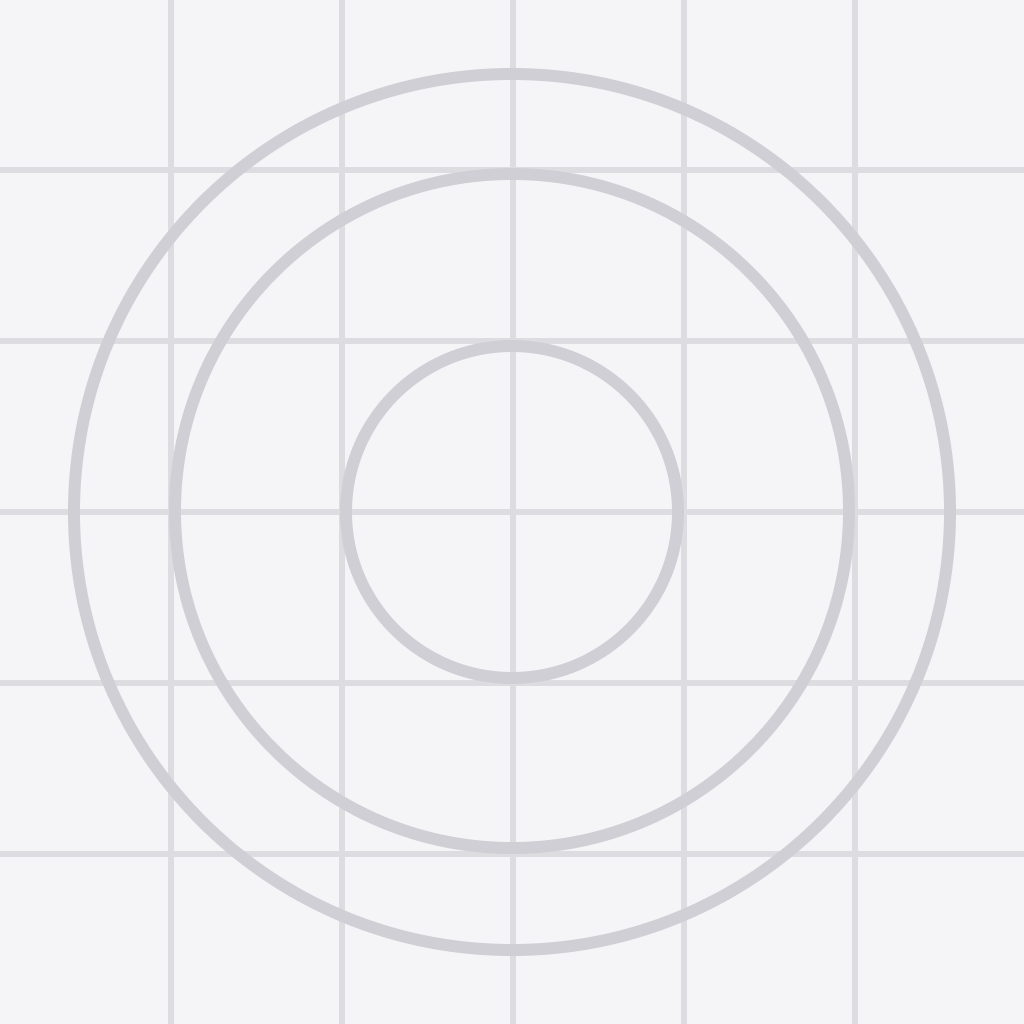
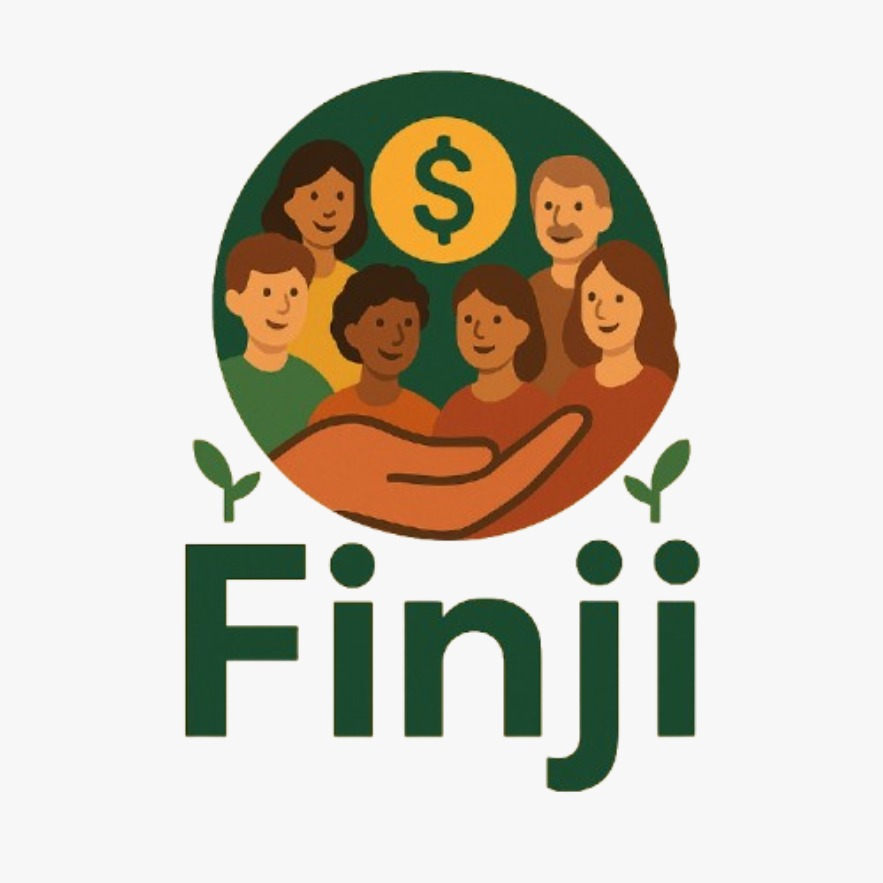
update responsivness

diff --git a/app/(tabs)/index.jsx b/app/(tabs)/index.jsx
@@ -18,6 +18,7 @@ import { useUserRole } from '../../contexts/UserRoleContext';
 
 const { width: screenWidth } = Dimensions.get('window');
 const isWeb = Platform.OS === 'web';
+const isSmallScreen = screenWidth < 380;
 
 export default function AuthPage() {
   const navigation = useNavigation();
@@ -257,8 +258,10 @@ function OAuthButtons() {
 
 const styles = StyleSheet.create({
   container: {
-    padding: isWeb ? 40 : 24,
-    paddingTop: isWeb ? 80 : 60,
+    flexGrow: 1,
+    padding: isWeb ? 40 : (isSmallScreen ? 16 : 20),
+    paddingTop: isWeb ? 80 : (isSmallScreen ? 28 : 40),
+    paddingBottom: isWeb ? 40 : (isSmallScreen ? 24 : 32),
     backgroundColor: '#fff',
     minHeight: '100%',
   },
@@ -269,11 +272,11 @@ const styles = StyleSheet.create({
   },
   iconContainer: {
     alignItems: 'center',
-    marginBottom: isWeb ? 24 : 16,
+    marginBottom: isWeb ? 24 : (isSmallScreen ? 10 : 12),
   },
   logoContainer: {
     backgroundColor: '#e6f0ff',
-    padding: isWeb ? 16 : 12,
+    padding: isWeb ? 16 : (isSmallScreen ? 10 : 12),
     borderRadius: 999,
     ...(isWeb && {
       transition: 'transform 0.2s ease',
@@ -284,21 +287,21 @@ const styles = StyleSheet.create({
     }),
   },
   logo: {
-    width: isWeb ? 80 : 64,
-    height: isWeb ? 80 : 64,
-    borderRadius: isWeb ? 40 : 32,
+    width: isWeb ? 80 : (isSmallScreen ? 52 : 60),
+    height: isWeb ? 80 : (isSmallScreen ? 52 : 60),
+    borderRadius: isWeb ? 40 : (isSmallScreen ? 26 : 30),
   },
   title: {
-    fontSize: isWeb ? 32 : 24,
+    fontSize: isWeb ? 32 : (isSmallScreen ? 20 : 22),
     fontWeight: 'bold',
     textAlign: 'center',
-    marginBottom: isWeb ? 40 : 30,
+    marginBottom: isWeb ? 40 : (isSmallScreen ? 18 : 22),
   },
   
   tabContainer: {
     flexDirection: 'row',
     justifyContent: 'center',
-    marginBottom: isWeb ? 32 : 24,
+    marginBottom: isWeb ? 32 : (isSmallScreen ? 14 : 18),
     backgroundColor: '#f0f0f0',
     borderRadius: 12,
     ...(isWeb && {
@@ -307,7 +310,7 @@ const styles = StyleSheet.create({
   },
   tab: {
     flex: 1,
-    paddingVertical: isWeb ? 16 : 12,
+    paddingVertical: isWeb ? 16 : (isSmallScreen ? 10 : 12),
     alignItems: 'center',
     borderRadius: 12,
     cursor: isWeb ? 'pointer' : 'default',
@@ -322,7 +325,7 @@ const styles = StyleSheet.create({
     backgroundColor: '#e6f0ff',
   },
   tabText: {
-    fontSize: isWeb ? 18 : 16,
+    fontSize: isWeb ? 18 : (isSmallScreen ? 14 : 15),
     color: '#6c757d',
     fontWeight: '600',
   },
@@ -330,19 +333,19 @@ const styles = StyleSheet.create({
     color: '#007bff',
   },
   label: {
-    marginBottom: isWeb ? 8 : 6,
+    marginBottom: isWeb ? 8 : (isSmallScreen ? 4 : 6),
     fontWeight: '500',
     color: '#212529',
-    fontSize: isWeb ? 16 : 14,
+    fontSize: isWeb ? 16 : (isSmallScreen ? 13 : 14),
   },
   form: {
-    marginBottom: isWeb ? 40 : 30,
+    marginBottom: isWeb ? 40 : (isSmallScreen ? 18 : 22),
   },
   input: {
     backgroundColor: '#fff',
-    padding: isWeb ? 16 : 12,
+    padding: isWeb ? 16 : (isSmallScreen ? 10 : 12),
     borderRadius: 8,
-    marginBottom: isWeb ? 16 : 12,
+    marginBottom: isWeb ? 16 : (isSmallScreen ? 10 : 12),
     borderWidth: 1,
     borderColor: '#ced4da',
     fontSize: isWeb ? 16 : 16,
@@ -357,11 +360,11 @@ const styles = StyleSheet.create({
   },
   forgotPassword: {
     alignItems: 'flex-end',
-    marginBottom: isWeb ? 20 : 16,
+    marginBottom: isWeb ? 20 : (isSmallScreen ? 10 : 14),
   },
   forgotPasswordText: {
     color: '#007bff',
-    fontSize: isWeb ? 14 : 13,
+    fontSize: isWeb ? 14 : (isSmallScreen ? 12 : 13),
     cursor: isWeb ? 'pointer' : 'default',
     ...(isWeb && {
       transition: 'color 0.2s ease',
@@ -373,7 +376,7 @@ const styles = StyleSheet.create({
   },
   button: {
     backgroundColor: '#cce0ff',
-    padding: isWeb ? 18 : 14,
+    padding: isWeb ? 18 : (isSmallScreen ? 12 : 14),
     borderRadius: 8,
     alignItems: 'center',
     cursor: isWeb ? 'pointer' : 'default',
@@ -392,15 +395,15 @@ const styles = StyleSheet.create({
   buttonText: {
     color: '#007bff',
     fontWeight: 'bold',
-    fontSize: isWeb ? 18 : 16,
+    fontSize: isWeb ? 18 : (isSmallScreen ? 14 : 16),
   },
   oauthButton: {
     backgroundColor: '#fff',
     borderWidth: 1,
     borderColor: '#dee2e6',
     borderRadius: 8,
-    paddingVertical: isWeb ? 14 : 12,
-    paddingHorizontal: isWeb ? 12 : 10,
+    paddingVertical: isWeb ? 14 : (isSmallScreen ? 10 : 12),
+    paddingHorizontal: isWeb ? 12 : (isSmallScreen ? 8 : 10),
     flex: 1,
     alignItems: 'center',
     cursor: isWeb ? 'pointer' : 'default',
@@ -414,7 +417,7 @@ const styles = StyleSheet.create({
     }),
   },
   oauthButtonText: {
-    fontSize: isWeb ? 15 : 14,
+    fontSize: isWeb ? 15 : (isSmallScreen ? 13 : 14),
     fontWeight: '600',
     color: '#343a40',
   },
@@ -427,7 +430,7 @@ const styles = StyleSheet.create({
   privacyPolicy: {
     textAlign: 'center',
     marginTop: 4,
-    fontSize: isWeb ? 13 : 12,
+    fontSize: isWeb ? 13 : (isSmallScreen ? 11 : 12),
     color: '#007bff',
     textDecorationLine: 'underline',
     cursor: isWeb ? 'pointer' : 'default',
@@ -440,15 +443,15 @@ const styles = StyleSheet.create({
   },
   roleContainer: {
     flexDirection: 'row',
-    marginBottom: isWeb ? 16 : 12,
+    marginBottom: isWeb ? 16 : (isSmallScreen ? 10 : 12),
     backgroundColor: '#f0f0f0',
     borderRadius: 8,
     padding: 4,
   },
   roleButton: {
     flex: 1,
-    paddingVertical: isWeb ? 12 : 10,
-    paddingHorizontal: isWeb ? 16 : 12,
+    paddingVertical: isWeb ? 12 : (isSmallScreen ? 9 : 10),
+    paddingHorizontal: isWeb ? 16 : (isSmallScreen ? 10 : 12),
     alignItems: 'center',
     borderRadius: 6,
     cursor: isWeb ? 'pointer' : 'default',
@@ -463,7 +466,7 @@ const styles = StyleSheet.create({
     backgroundColor: '#e6f0ff',
   },
   roleButtonText: {
-    fontSize: isWeb ? 14 : 13,
+    fontSize: isWeb ? 14 : (isSmallScreen ? 12 : 13),
     color: '#6c757d',
     fontWeight: '600',
   },

diff --git a/app/web-styles.css b/app/web-styles.css
@@ -1,5 +1,35 @@
 /* Web-specific styles for Finji app */
 
+/* Mobile-first web viewport + overflow safety */
+html,
+body {
+  width: 100%;
+  min-height: 100%;
+  margin: 0;
+  padding: 0;
+  overflow-x: hidden;
+  -webkit-text-size-adjust: 100%;
+}
+
+/* Expo web root */
+#root {
+  width: 100%;
+  min-height: 100%;
+}
+
+/* Prefer dynamic viewport height on mobile browsers */
+@supports (height: 100dvh) {
+  body {
+    min-height: 100dvh;
+  }
+}
+
+*,
+*::before,
+*::after {
+  box-sizing: border-box;
+}
+
 /* Global web enhancements */
 @media (min-width: 768px) {
   /* Prevent body scroll when modal is open */

diff --git a/app/(tabs)/_layout.jsx b/app/(tabs)/_layout.jsx
@@ -6,7 +6,7 @@ import { DarkTheme, DefaultTheme, NavigationContainer, useNavigation } from '@re
 import { createStackNavigator } from "@react-navigation/stack";
 import { signOut } from 'firebase/auth';
 import React from "react";
-import { Alert, Platform } from 'react-native';
+import { Alert, Platform, useWindowDimensions } from 'react-native';
 import NotFoundScreen from "../+not-found";
 import { auth } from "../../config/firebase";
 import { Colors } from "../../constants/Colors";
@@ -20,6 +20,7 @@ import PostScreen from "./PostScreen";
 import ProfileScreen from "./ProfileScreen";
 
 const isWeb = Platform.OS === 'web';
+const WEB_FIXED_TABBAR_MIN_WIDTH = 768;
 
 const Stack = createStackNavigator();
 const Tab = createBottomTabNavigator();
@@ -29,6 +30,8 @@ const Drawer = createDrawerNavigator();
 const BottomTabs = () => {
   const colorScheme = useColorScheme();
   const { userRole, isLoading, user } = useUserRole();
+  const { width } = useWindowDimensions();
+  const useFixedWebTabBar = isWeb && width >= WEB_FIXED_TABBAR_MIN_WIDTH;
 
 
   // Show loading state while determining user role
@@ -48,7 +51,7 @@ const BottomTabs = () => {
         tabBarInactiveTintColor: "gray",
         tabBarStyle: {
           backgroundColor: Colors[colorScheme ?? "light"].background,
-          ...(isWeb && {
+          ...(useFixedWebTabBar && {
             position: 'fixed',
             bottom: 0,
             left: 0,
@@ -74,7 +77,7 @@ const BottomTabs = () => {
 
           return <Ionicons name={iconName} size={size} color={color} />;
         },
-        ...(isWeb && {
+        ...(useFixedWebTabBar && {
           tabBarLabelStyle: {
             fontSize: 12,
             fontWeight: '600',
@@ -211,7 +214,7 @@ export default function StackLayout() {
           contentStyle: {
             backgroundColor: Colors[colorScheme ?? "light"].background,
             ...(isWeb && {
-              minHeight: '100vh',
+              minHeight: '100%',
             }),
           },
         }}

diff --git a/app/_layout.tsx b/app/_layout.tsx
@@ -1,9 +1,14 @@
 import { useFonts } from 'expo-font';
 import { StatusBar } from 'expo-status-bar';
 import 'react-native-reanimated';
+import { Platform } from 'react-native';
 
 import { UserRoleProvider } from '../contexts/UserRoleContext';
 import StackLayout from './(tabs)/_layout';
+
+if (Platform.OS === 'web') {
+  require('./web-styles.css');
+}
 
 export default function RootLayout() {
   const [loaded] = useFonts({

diff --git a/app/(tabs)/HomeScreen.jsx b/app/(tabs)/HomeScreen.jsx
@@ -346,7 +346,8 @@ const styles = StyleSheet.create({
   scrollContainer: { 
     alignItems: "center",
     paddingHorizontal: isWeb ? 40 : 20,
-    paddingBottom: isWeb ? 60 : 40,
+    // Extra space so content isn't covered by bottom tab bar (especially on mobile web)
+    paddingBottom: isWeb ? 110 : 40,
   },
   
 